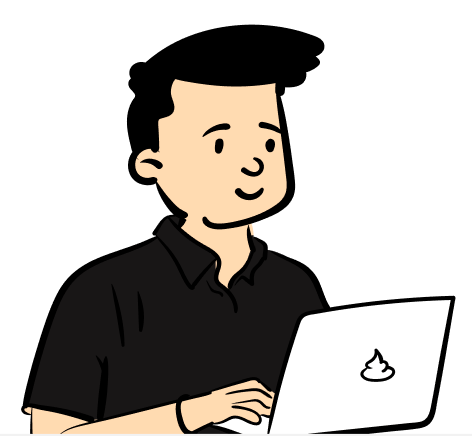
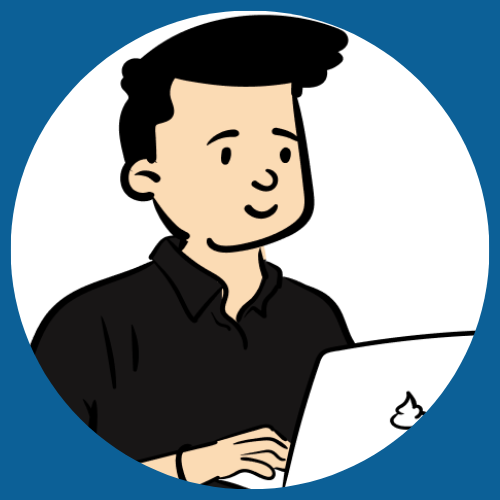
First version of ours section

diff --git a/index.html b/index.html
@@ -58,10 +58,17 @@
             </div>
         </ul>
         <svg xmlns="http://www.w3.org/2000/svg" viewBox="0 0 1440 320"><path fill="#0C6097" fill-opacity="1" d="M0,288L30,250.7C60,213,120,139,180,138.7C240,139,300,213,360,245.3C420,277,480,267,540,224C600,181,660,107,720,117.3C780,128,840,224,900,256C960,288,1020,256,1080,234.7C1140,213,1200,203,1260,213.3C1320,224,1380,256,1410,272L1440,288L1440,320L1410,320C1380,320,1320,320,1260,320C1200,320,1140,320,1080,320C1020,320,960,320,900,320C840,320,780,320,720,320C660,320,600,320,540,320C480,320,420,320,360,320C300,320,240,320,180,320C120,320,60,320,30,320L0,320Z"></path></svg>
-
     </section>
     <section class="ours">
         <img class="ours_avatar" src="/assets/img/avatar.png" alt="Avatar de Alejo Vilches">
+        <h2>¡Hola, soy el encargado de crear tu estudio en Internet!</h2>
+        <div class="ours_text">
+            <p>Mi nombre es Alejo Vilches, y ademas de desarrollador web soy abogado igual que vos. Me recibí hace varios años, trabajé para varios estudios jurídicos hasta juntar valor y abrir mi propio despacho. Empecé alquilando una pequeña oficina en Quilmes y atendiendo clientes en diversos departamentos judiciales.</p>
+            <p>Me especialicé en Derecho de las Familias y trabajé en (casi) todos los departamentos judiciales de la Provincia de Buenos Aires asistiendo en diversas causas relacionadas con el Derecho de la Familia y Sucesiones a una gran cantidad de clientes</p>
+            <p>¿Por que te cuento esto? Porque sé lo que significa emprender en el mercado jurídico y se lo importante que es generar una presencia digital para nuestros estudios. Hace años decidí dejar de ejercer la profesion liberal y asesorar a letrados para generar experiencias digitales</p>
+            <p>En el camino me he topado con una gran cantidad de colegas, con quienes además de compartir esta hermosa profesion, podemos estar de acuerdo en que es imprescindible actualmente contar con una presencia en Internet</p>
+            <p>Ya conoces un poco sobre mi, aunque si queres tener mas informacion podes visitar mi sitio web. Sin embargo, me gustaría conocer mas sobre vos y sobre como hacer que la experiencia web de tu estudio sea impecable.s</p>
+        </div>
         </section>
 <script src="script.js"></script>
 </body>

diff --git a/styles.css b/styles.css
@@ -10,6 +10,16 @@
 }
 
 @font-face {
+    font-family: Nunito Medium Italic;
+    src: url(/assets/fonts/Nunito-MediumItalic.ttf);
+}
+
+@font-face {
+    font-family: Nunito Light;
+    src: url(/assets/fonts/Nunito-Light.ttf);
+}
+
+@font-face {
     font-family: Nunito Regular;
     src: url(/assets/fonts/Nunito-Regular.ttf);
 }
@@ -227,6 +237,24 @@ button {
 }
 
 .ours_avatar{
-    width:60vw;
-    clip-path: circle(35% at 50% 39%);
+    width:200px;
+    height:200px;
+    padding-left:2vw;
+}
+
+.ours h2{
+    padding-left:2vw;
+    color:white;
+    font-family: "Nunito Regular";
+    font-size:2em;
+    margin-top: 2vh;
+}
+
+
+.ours p{
+    font-family: "Nunito Light";
+    text-align: justify;
+    color:white;
+    padding:10px 2vw;
+    font-size:1.2em;
 }
